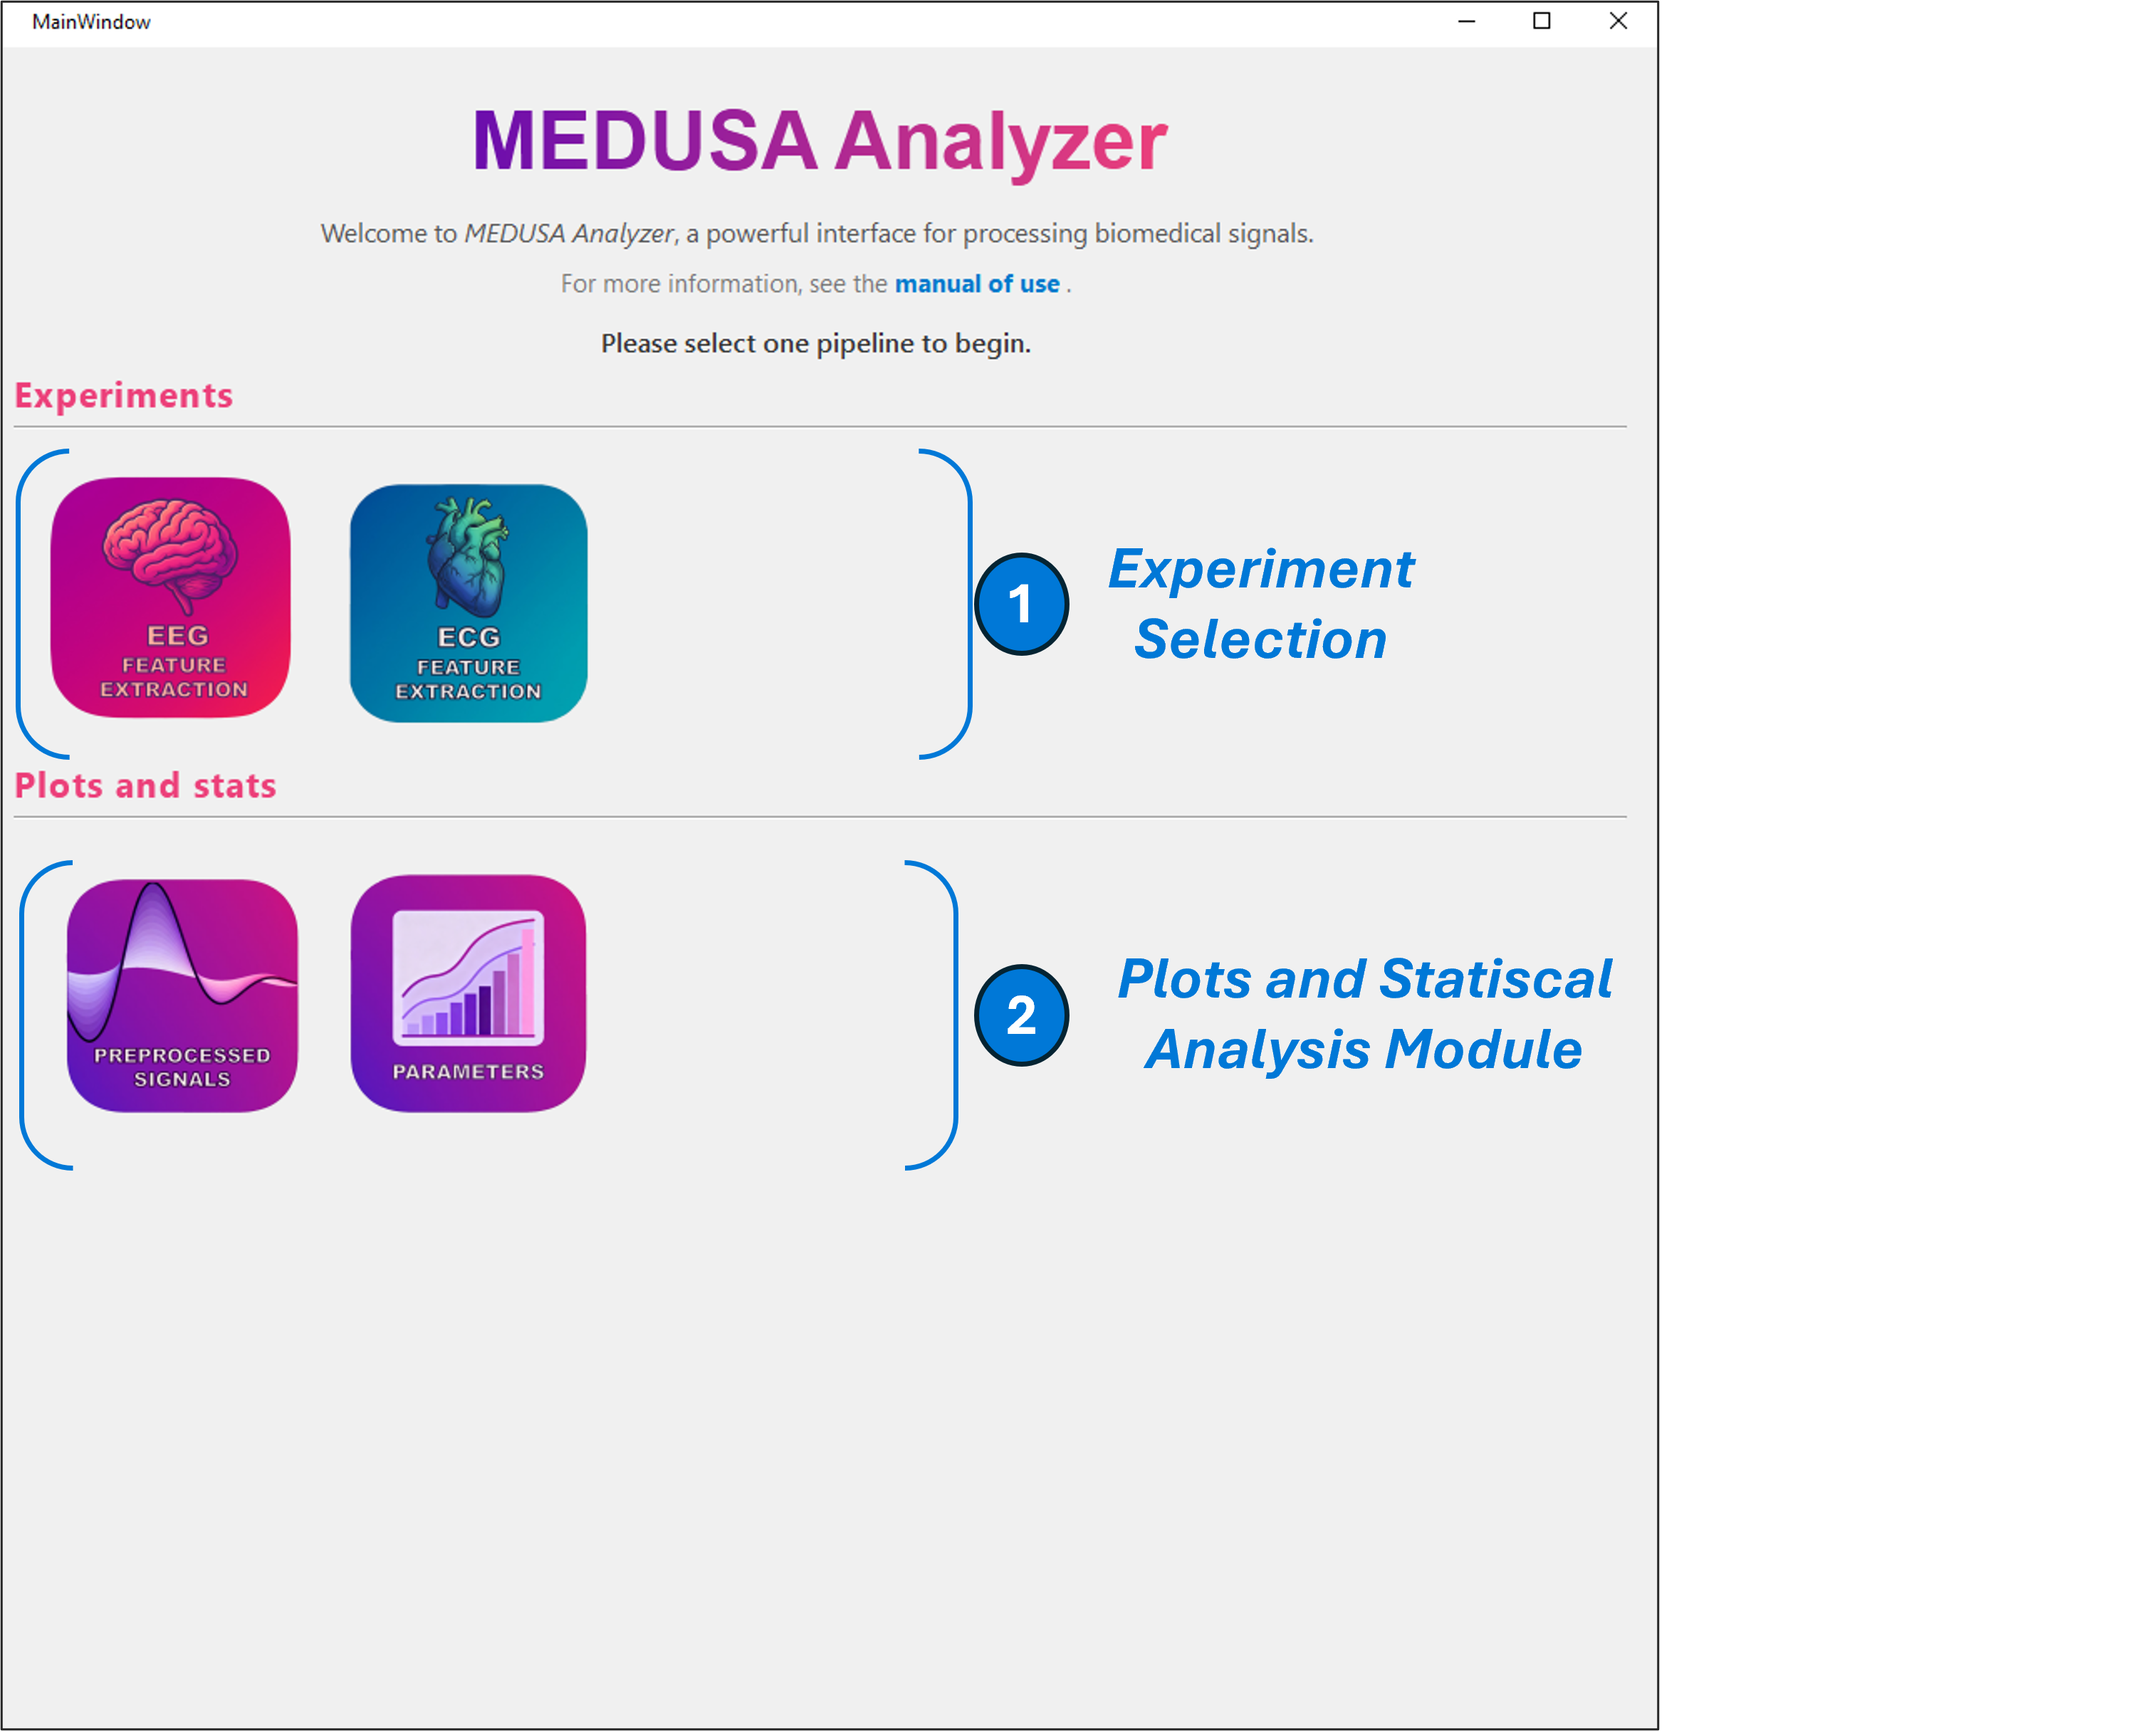
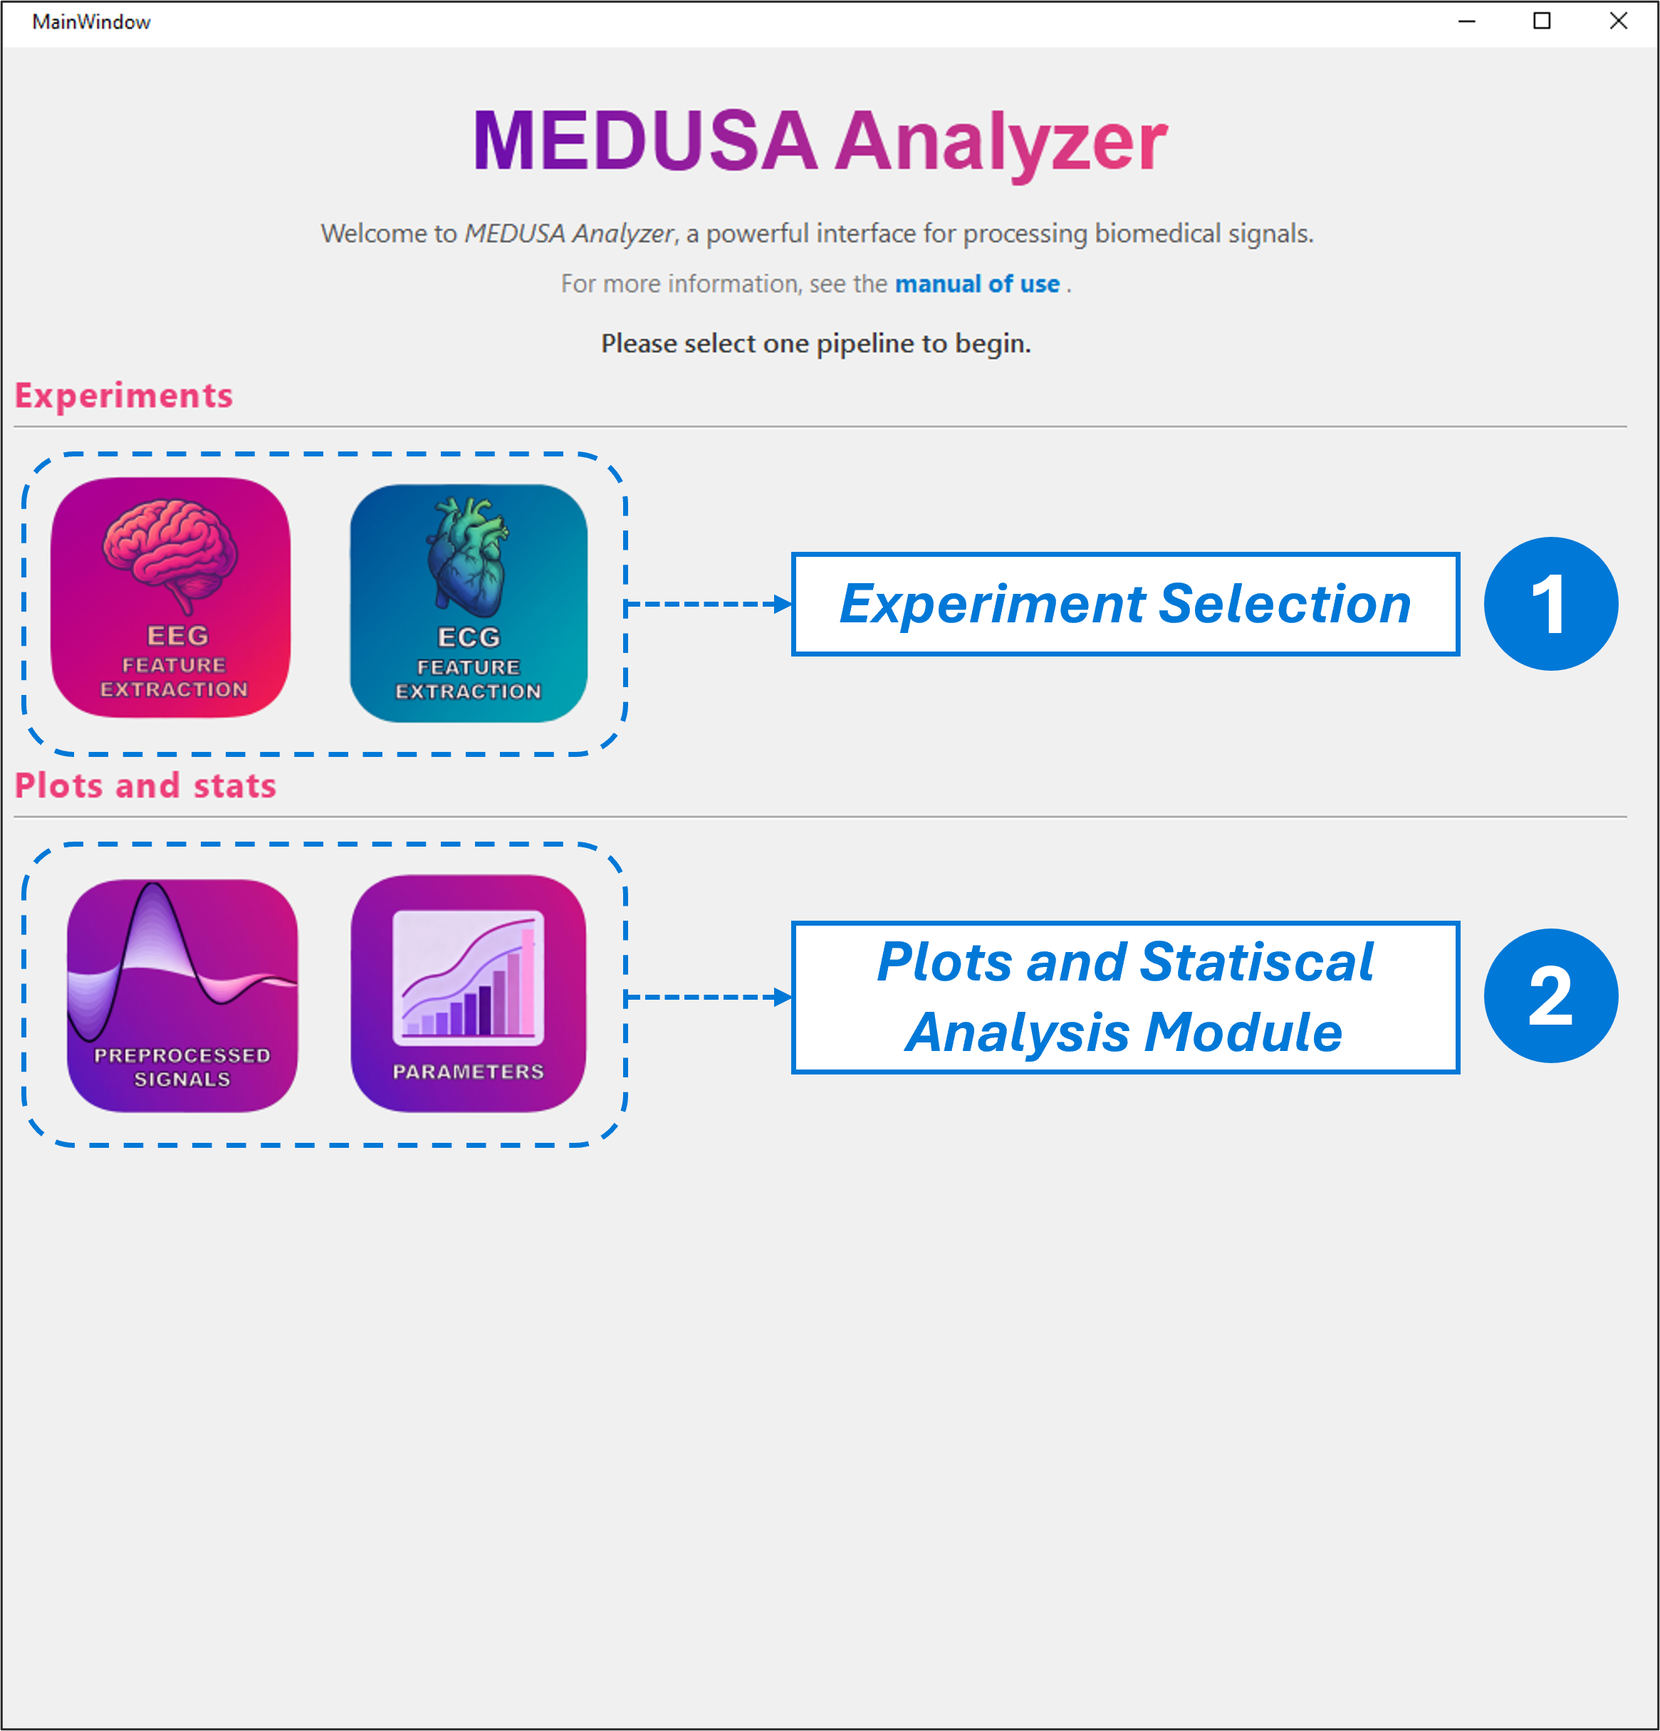
EEG docs

diff --git a/analyzer-docs/docs/eeg.md b/analyzer-docs/docs/eeg.md
@@ -1,0 +1,206 @@
+# EEG Feature Extraction
+
+In the **EEG Feature Extraction** experiment, users can **preprocess EEG signals** and **extract a wide variety of features** for further analysis. This experiment is divided into several windows that guide you through the full workflow — from data loading to saving the results.
+
+---
+
+## 1. Loading Data
+
+When clicking on **EEG Feature Extraction** in the main window, the first screen you will see is the **Data Loader**.
+
+Here, you can:
+- Load an entire **experiment** (e.g., a folder containing subjects and sessions), or
+- Load a **single EEG recording file**.
+
+The supported file format for EEG data is **`.rec.bson`**, which is the **native MEDUSA© format**, also used across the MEDUSA© ecosystem (e.g., *MEDUSA© Platform* and *MEDUSA© Kernel*).
+
+![Data loader screenshot](media/data_loader.png){ width="600px"}
+---
+### Converter Tool
+
+In the Data Loader window, you will find a **Converter** button.  
+This tool allows you to convert different biosignal file types to the `.rec.bson` format.
+
+!!! tip
+    It is highly recommended to convert your data first using this Converter before loading it into the Analyzer.  
+    The Converter also organizes converted data into the **BIDS** structure — the format that MEDUSA© Analyzer is optimized for.
+
+Once your data are ready:
+- Click **Browse file** to load a single `.rec.bson` file, or  
+- Click **Browse experiment** to load an entire experiment folder.
+
+After loading, the detected biosignal type will appear under **Selected biosignal** — in this case, EEG.
+
+!!! note
+    If you have a saved **configuration file (`settings.json`)** generated by MEDUSA© Analyzer, you can load it here.  
+    This will automatically apply all the preprocessing, segmentation, and feature extraction parameters from a previous session.
+
+---
+
+## 2. Preprocessing
+
+After loading the data, click **Next** to enter the **Preprocessing** window.  
+Here you can apply various filters and transformations to your EEG signals.
+
+At the top of the window, you will see a summary of the current frequency range of your data.
+When you apply filtering (for example, a band-pass filter), this information updates automatically to reflect 
+the new passband of the processed signal.
+
+Available preprocessing options include:
+- **Common Average Reference (CAR)**
+- **Notch filter**
+- **Band-pass filter**
+
+Each filter has customizable parameters such as **filter order**, **window size**, and **frequency limits**.
+To update filter plots after modifying parameters, click on '**Update graph**'.
+
+![Preprocessing screenshot](media/preprocessing.png){ width="600px"}
+---
+
+### Band Filtering
+
+At the bottom of this window, you can enable **band filtering** to split your signal into specific frequency bands.
+
+By default, the EEG bands are:
+| **Band** | **Frequency Range (Hz)** |
+|----------|---------------------------|
+| Delta | 0.5–4 |
+| Theta | 4–8 |
+| Alpha | 8–13 |
+| Beta | 13–30 |
+| Gamma | 30–70 |
+
+Click **Edit Bands** to open the editable band table.
+
+You can:
+- Rename or modify frequency limits directly in the table.  
+- Remove bands that you do **not** wish to include.
+- Add new bands by clicking **Add Band**.
+
+![Band filtering screenshot](media/band_filtering.png){ width="600px"}
+
+!!! warning
+    Band names **must not contain spaces**.  
+    For example, use `beta1` and `beta2` instead of `beta 1` and `beta 2`.
+
+!!! note
+    When band filtering is enabled, **all features** will be computed both for the **broadband signal** and for each selected frequency band.
+
+---
+
+## 3. Segmentation
+
+Click **Next** to proceed to the **Segmentation** window.
+
+You can choose to segment the EEG signal by:
+- **Condition**, or  
+- **Event**.
+
+Detected conditions (e.g., *eyes open*, *eyes closed*) or events (e.g., *stimulus*, blinks) are automatically listed.  
+Select your segmentation mode and specify the **epoch window** (e.g., from -100 ms to 700 ms around an event).
+
+Additional options include:
+- **Stride segmentation** – to define overlapping epochs (only for condition-based segmentation strategy.
+- - **Normalization** – choose between mean-only or mean+standard deviation normalization.
+- **Automatic rejection (thresholding)** – epochs exceeding a given number of standard deviations will be discarded.
+- **Average epochs** – averages the resulting parameters across all epochs in the recording.
+- **Resampling** – specify a new target sampling rate.
+
+!!! tip
+    It is recommended to enable **Average epochs** for better visualization and summary statistics in later analyses.
+
+![Segmentation screenshot](media/segmentation.png){ width="600px"}
+
+---
+
+## 📊 4. Feature Extraction
+
+In the **Feature Extraction** window, you can compute a wide range of features grouped into several categories:
+
+- **Time-domain features**  
+  Mean, variance, skewness, kurtosis, etc.
+
+- **Spectral features**  
+  Power Spectral Density (PSD), absolute and relative power, median frequency, spectral entropy, etc.
+
+- **Non-linear features**  
+  - **Central Tendency Measure (CTM)**  
+    Quantifies the dispersion of points in phase space.  
+    - **Parameter:** `radius` — defines the neighborhood size; smaller radii capture finer signal fluctuations.
+
+  - **Sample Entropy (SampEn)**  
+    Measures the unpredictability of the signal.  
+    - **m:** embedding dimension or pattern length (commonly 2).  
+    - **r:** tolerance threshold, typically a proportion of the signal’s standard deviation.
+
+  - **Multiscale Sample Entropy (MSE)**  
+    Extends SampEn across multiple temporal scales to characterize complexity.  
+    - **max scale:** maximum number of coarse-grained scales.  
+    - **m:** embedding dimension.  
+    - **r:** similarity tolerance.  
+    At each scale, the signal is coarse-grained before computing entropy.
+
+  - **Lempel–Ziv Complexity (LZC)**  
+    Quantifies the complexity of a signal based on the number of new binary patterns encountered while scanning through it.
+
+  - **Multiscale Lempel–Ziv Complexity (MLZC)**  
+    Computes LZC across multiple coarse-grained scales.  
+    - Scales must be **manually entered** as a list, e.g.:  
+      `[1, 3, 5]`  
+    - **Important:** scales must be **odd numbers**.
+
+- **Connectivity metrics**  
+  - **Amplitude-based metrics**  
+    - **IAC (Inter-areal Amplitude Correlation)**  
+    - **AEC (Amplitude Envelope Correlation)**  
+      Includes an **orthogonalization option** to reduce spurious coupling due to volume conduction.
+
+  - **Phase-based metrics**  
+    - **wPLI (Weighted Phase Lag Index)**  
+    - **PLI (Phase Lag Index)**  
+    - **PLV (Phase Locking Value)**
+
+!!! note  
+If you previously enabled **band filtering**, each feature will be computed both for the **broadband signal** and for every **selected frequency band**.  
+Simply select the desired metrics using the corresponding checkboxes.
+
+---
+
+## 5. Saving Results
+
+Finally, click **Next** to open the **Save Results** window.
+
+At the top, select an **empty folder** where your results will be stored.
+
+!!! warning
+    The output folder **must be empty** before saving results.
+
+You can then choose which stages of the analysis to save:
+- **Settings (.json)** – contains all configuration parameters.  
+  It is strongly recommended to save this file for reproducibility.  
+- **Preprocessed signal**
+- **Segmented signal**
+- **Extracted features**
+
+![Saving screenshot](media/saving.png){ width="600px"}
+
+### Reusing Configurations
+The saved `.json` configuration file can later be **loaded in the Data Loader window**, automatically restoring all parameters used in the original experiment.  
+This allows you to share your full pipeline setup with other users to replicate results.
+
+---
+
+## 📁 Output Structure (BIDS Format)
+
+All saved data follow the **semi-BIDS directory structure**, consistent with MEDUSA© Analyzer conventions:
+
+```text
+[selected_folder]/
+├── settings.json
+└── derivatives/
+    ├── preprocessed/
+    │   └── EEG/
+    ├── segmented/
+    │   └── EEG/
+    └── parameters/
+        └── EEG/
